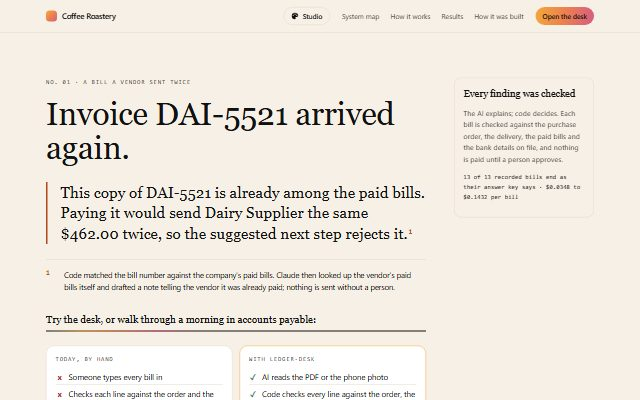
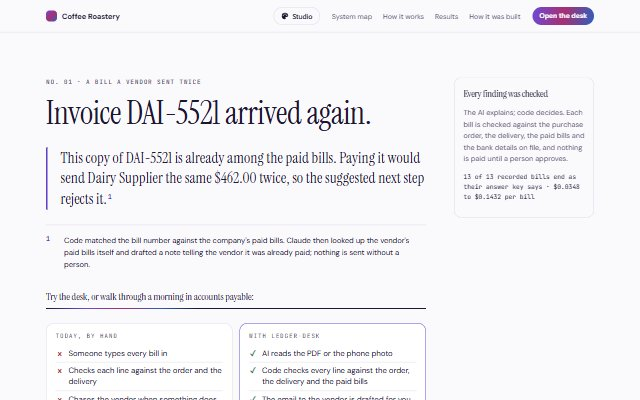
feat(web): Editorial on Trace lilac with Instrument Serif is the default look
The default look a first visit sees becomes layout 06, Editorial, on
Trace lilac with Instrument Serif + DM Sans (web/src/studio/presets.ts
DEFAULT, now { option: "06", palette: "lilac", font: "serif" }). It was
layout 01, Bills up front, on Golden hour on paper with Barlow Condensed
caps, the sibling demos' default, kept until the owner picked one. The
owner picked this look in the Studio.

Tests that pin the default, changed first and seen failing on the old
DEFAULT:
- studio.test.ts: the default and the fallback for a missing or unknown
  layout (2 of 133 failed, now 133 of 133).
- e2e/layouts.e2e.ts, "a pick is saved": it clicked Editorial and
  expected Editorial's own colours. With Editorial the default, that
  click keeps the look on screen (pickFor), so it now picks Bills up
  front and expects its own colours, and Back to the default expects
  the Editorial hero. On the old DEFAULT it failed 2 of 2 (desktop and
  phone) at the first Editorial check; now 60 of 60.
- tests/test_export_site.py: two tests read the default from the real
  presets file. One asserted that layout 01 is the default; it now
  asserts that 06 Editorial is the only default.

The README picture of the default had alt text written for layout 01
("the cards for bills ready, bills that need a look and money caught"),
hardcoded in scripts/export_site.py. It now comes from the default
layout's own Studio description; a new test covers it and failed on the
old text.
[…]

diff --git a/web/src/studio/studio.test.ts b/web/src/studio/studio.test.ts
@@ -77,10 +77,14 @@ describe('the Studio presets', () => {
     }
   })
 
-  it('fifteen font pairings; the default is golden hour on paper with Barlow Condensed caps on layout 01', () => {
+  it('fifteen font pairings; the default is Editorial on Trace lilac with Instrument Serif and DM Sans', () => {
     expect(Object.keys(FONTS)).toHaveLength(15)
-    // the owner picks the default from the twelve; 01 until then
-    expect(DEFAULT).toEqual({ option: '01', palette: 'coverPaper', font: 'condensed' })
+    // chosen by the owner on 2026-11-21: Editorial (06) on Trace lilac with Instrument Serif + DM Sans; until then
+    // layout 01 on Golden hour on paper with Barlow Condensed caps, the sibling demos' default look
+    expect(DEFAULT).toEqual({ option: '06', palette: 'lilac', font: 'serif' })
+    expect(PALETTES.lilac.name).toBe('Trace lilac')
+    expect(FONTS.serif.head).toMatch(/Instrument Serif/)
+    expect(FONTS.serif.body).toMatch(/DM Sans/)
     expect(FONTS.condensed.head).toMatch(/Barlow Condensed/)
     expect(FONTS.condensed.body).toMatch(/DM Sans/)
     expect(FONTS.condensed.caps).toBe(true)
@@ -97,8 +101,8 @@ describe('which look a visitor sees', () => {
 
   it('without a link the saved pick shows; without either, the default', () => {
     expect(resolve('', { option: '08', palette: 'lime', font: 'inter' })).toEqual({ option: '08', palette: 'lime', font: 'inter', source: 'saved' })
-    expect(resolve('')).toEqual({ option: '01', palette: 'coverPaper', font: 'condensed', source: 'default' })
-    expect(resolve('?layout=99')).toEqual({ option: '01', palette: 'coverPaper', font: 'condensed', source: 'default' })
+    expect(resolve('')).toEqual({ option: '06', palette: 'lilac', font: 'serif', source: 'default' })
+    expect(resolve('?layout=99')).toEqual({ option: '06', palette: 'lilac', font: 'serif', source: 'default' })
     expect(resolve('', { option: '99' }).source).toBe('default')
   })
 

diff --git a/web/e2e/layouts.e2e.ts b/web/e2e/layouts.e2e.ts
@@ -121,21 +121,24 @@ test.describe('the Studio', () => {
     await expect(opener).toBeFocused()
   })
 
+  // Picks Bills up front (01), a layout other than the default: since 2026-11-21 the default is Editorial (06), and
+  // clicking the layout already on screen keeps the look on screen instead of bringing the layout's own.
   test('a pick is saved and the page reloads into it; Back to the default clears it', async ({ page }) => {
     await page.goto('/')
     await ready(page)
+    await expect(page.locator('.hero-editorial')).toBeVisible()
     await page.locator('.sp-btn').first().click()
     const panel = page.getByRole('dialog', { name: 'Studio' })
-    await Promise.all([page.waitForEvent('load'), panel.getByRole('button', { name: /^Editorial/ }).click()])
+    await Promise.all([page.waitForEvent('load'), panel.getByRole('button', { name: /^Bills up front/ }).click()])
     await ready(page)
-    expect(JSON.parse((await saved(page)) ?? 'null')).toMatchObject({ option: '06', palette: 'coverPaper', font: 'serif' })
-    await expect(page.locator('.hero-editorial')).toBeVisible()
+    expect(JSON.parse((await saved(page)) ?? 'null')).toMatchObject({ option: '01', palette: 'coverDark', font: 'grotesk' })
+    await expect(page.locator('.hero-search')).toBeVisible()
     // the Studio opens again after its own reload, so the visitor sees the pick and can keep going
     await expect(page.getByRole('dialog', { name: 'Studio' })).toBeVisible()
     await Promise.all([page.waitForEvent('load'), page.getByRole('dialog', { name: 'Studio' }).getByRole('button', { name: 'Back to the default' }).click()])
     await ready(page)
     expect(await saved(page)).toBeNull()
-    await expect(page.locator('.hero-search')).toBeVisible()
+    await expect(page.locator('.hero-editorial')).toBeVisible()
   })
 
   test('a map-first layout can be picked too', async ({ page }) => {

diff --git a/web/src/studio/presets.ts b/web/src/studio/presets.ts
@@ -65,9 +65,9 @@ export const OPTIONS: Option[] = [
   { id: "14", name: "Status cards", short: "Friendly: each part of the workflow as a card with its status. Tap one to find it on the map.", cfg: { look: "garage", palette: "garage", font: "outfit" } },
 ];
 
-// What a first-time visitor sees: Golden hour on paper with Barlow Condensed caps, the sibling demos' default look, on
-// layout 01 until the owner picks a default from the twelve.
-export const DEFAULT = { option: "01", palette: "coverPaper", font: "condensed" };
+// What a first-time visitor sees: Editorial (06) on Trace lilac with Instrument Serif + DM Sans, picked by the owner
+// on 2026-11-21. Until then layout 01 on Golden hour on paper with Barlow Condensed caps, the sibling demos' default.
+export const DEFAULT = { option: "06", palette: "lilac", font: "serif" };
 
 export const PALETTES: Record<string, Palette> = {
   coverDark: { name: "Golden hour on black", bg: "#070708", card: "#141416", card2: "#1b1b1e", line: "#26262c", tx: "#f3f3f5", mu: "#9a9aa3", a1: "#f4a83a", a2: "#ec8050", a3: "#d55c82", acc: "#f4a83a", on: "#111111", mark: "rgba(244,168,58,.28)" },

diff --git a/tests/test_export_site.py b/tests/test_export_site.py
@@ -170,7 +170,9 @@ def test_each_recorded_run_carries_the_tokens_of_each_model_call():
 def test_the_layouts_come_from_the_studio_presets():
     layouts = export_site.layouts(ROOT / "web" / "src" / "studio" / "presets.ts")
     assert [l["id"] for l in layouts] == ["01", "04", "05", "06", "07", "08", "09", "10", "11", "12", "13", "14"]
-    assert layouts[0]["name"] == "Bills up front" and layouts[0]["default"] is True
+    assert layouts[0]["name"] == "Bills up front"
+    # the default since 2026-11-21 (layout 01 until then)
+    assert [(l["id"], l["name"]) for l in layouts if l["default"]] == [("06", "Editorial")]
     assert sum(l["default"] for l in layouts) == 1
 
 
@@ -200,7 +202,8 @@ def test_the_results_block_reads_the_numbers_from_the_data():
 def test_the_studio_counts_and_the_default_look_come_from_the_presets():
     k = export_site.studio(ROOT / "web" / "src" / "studio" / "presets.ts")
     assert (k["palettes"], k["fonts"]) == (21, 15)
-    assert (k["palette"], k["font"]) == ("Golden hour on paper", "Barlow Condensed caps + DM Sans")
+    # the default look since 2026-11-21 (Golden hour on paper with Barlow Condensed caps + DM Sans until then)
+    assert (k["palette"], k["font"]) == ("Trace lilac", "Instrument Serif + DM Sans")
 
 
 VITEST_FILE_FAILED = " Test Files  1 failed | 11 passed (12)\n      Tests  117 passed (117)\n"
@@ -251,3 +254,19 @@ def test_the_readme_intro_names_the_live_site_and_where_it_runs():
     for service in ("Azure Container Apps", "Azure Database for PostgreSQL", "Azure Key Vault", "Azure Static Web Apps", "Terraform"):
         assert service in intro, service
     assert "Not deployed" not in intro
+
+
+def test_the_readme_picture_of_the_default_is_described_as_that_layout():
+    # The alt text was written for layout 01 and kept when the default became 06 (2026-11-21): it described cards
+    # that are not in the picture. It now comes from the default layout's own Studio description.
+    lays = export_site.layouts(ROOT / "web" / "src" / "studio" / "presets.ts")
+    data = {
+        "evals": export_site.eval_runs(ROOT / "evals" / "results"),
+        "recorded": export_site.recorded_runs(ROOT / "replays" / "claude-opus-5-5-low-run2"),
+        "tests": {"python": {"passed": 1}, "web": {"passed": 1}},
+        "model": {"name": "Claude Opus 5.5"},
+    }
+    intro = export_site.readme_blocks(data, lays)["intro"]
+    default = next(l for l in lays if l["default"])
+    assert f'alt="Layout {default["id"]}, {default["name"]}, at 1280 pixels: {default["short"]}"' in intro
+    assert f'src="docs/img/layouts/{default["id"]}-web.jpg"' in intro

diff --git a/scripts/export_site.py b/scripts/export_site.py
@@ -310,8 +310,9 @@ def readme_blocks(data: dict, lays: list[dict], counts: dict | None = None) -> d
         + f", with the same bills and numbers in all of them; the default is layout {default['id']}, {default['name']}. See",
         "[Design](#design-the-layouts-on-the-web-and-on-a-phone).",
         "",
-        f'<img alt="Layout {default["id"]}, {default["name"]}, at 1280 pixels: the bill desk with the walkthrough button, the cards '
-        f'for bills ready, bills that need a look and money caught" src="docs/img/layouts/{default["id"]}-web.jpg" width="640">',
+        # the default layout's own Studio description, so the alt text follows the default (it described 01's cards)
+        f'<img alt="Layout {default["id"]}, {default["name"]}, at 1280 pixels: {default["short"]}" '
+        f'src="docs/img/layouts/{default["id"]}-web.jpg" width="640">',
     ])
     pairs = []
     for l in lays:

diff --git a/README.md b/README.md
@@ -16,13 +16,13 @@ on Azure Container Apps, the database on Azure Database for PostgreSQL, the secr
 Azure Static Web Apps, all set up with Terraform ([Where it runs](#where-it-runs-microsoft-azure)).
 
 The demo replays 13 recorded real runs of Claude Opus 5.5 through today's code, so it costs
-nothing per visit; 13 of 13 end as their answer key says. 392 Python tests and
-127 page tests pass, and browser tests check every layout at 1280 x 800 and 390 x 844.
+nothing per visit; 13 of 13 end as their answer key says. 393 Python tests and
+133 page tests pass, and browser tests check every layout at 1280 x 800 and 390 x 844.
 
-**A customizable page.** 12 layouts, 21 colour sets and 15 typefaces, with the same bills and numbers in all of them; the default is layout 01, Bills up front. See
+**A customizable page.** 12 layouts, 21 colour sets and 15 typefaces, with the same bills and numbers in all of them; the default is layout 06, Editorial. See
 [Design](#design-the-layouts-on-the-web-and-on-a-phone).
 
-<img alt="Layout 01, Bills up front, at 1280 pixels: the bill desk with the walkthrough button, the cards for bills ready, bills that need a look and money caught" src="docs/img/layouts/01-web.jpg" width="640">
+<img alt="Layout 06, Editorial, at 1280 pixels: Paper and serif: a bill sent twice, the paid bill as a footnote, one run stepped through in a player." src="docs/img/layouts/06-web.jpg" width="640">
 <!-- /generated:intro -->
 
 ## Why build it this way
@@ -179,7 +179,7 @@ The bills replay recorded Claude runs through today's code, so nothing calls a m
 ## Design: the layouts, on the web and on a phone
 
 <!-- generated:design -->
-The default is layout 01, Bills up front, in Golden hour on paper with Barlow Condensed caps + DM Sans.
+The default is layout 06, Editorial, in Trace lilac with Instrument Serif + DM Sans.
 Each pair is the page at 1280 x 800 and at 390 x 844, with reduced motion so the animations show their last frame.
 
 <table>
@@ -188,7 +188,7 @@ Each pair is the page at 1280 x 800 and at 390 x 844, with reduced motion so the
 <td><img alt="Layout 01, Bills up front, on the web" src="docs/img/layouts/01-web.jpg" width="640"></td>
 <td><img alt="Layout 01, Bills up front, on a phone" src="docs/img/layouts/01-phone.jpg" width="300"></td>
 </tr>
-<tr><td colspan="2"><b>01 Bills up front</b> (the default) - The bill desk up front with the walkthrough a click away, then a field of dots for every bill the eval read.</td></tr>
+<tr><td colspan="2"><b>01 Bills up front</b> - The bill desk up front with the walkthrough a click away, then a field of dots for every bill the eval read.</td></tr>
 <tr>
 <td><img alt="Layout 04, Under the hood, on the web" src="docs/img/layouts/04-web.jpg" width="640"></td>
 <td><img alt="Layout 04, Under the hood, on a phone" src="docs/img/layouts/04-phone.jpg" width="300"></td>
@@ -203,7 +203,7 @@ Each pair is the page at 1280 x 800 and at 390 x 844, with reduced motion so the
 <td><img alt="Layout 06, Editorial, on the web" src="docs/img/layouts/06-web.jpg" width="640"></td>
 <td><img alt="Layout 06, Editorial, on a phone" src="docs/img/layouts/06-phone.jpg" width="300"></td>
 </tr>
-<tr><td colspan="2"><b>06 Editorial</b> - Paper and serif: a bill sent twice, the paid bill as a footnote, one run stepped through in a player.</td></tr>
+<tr><td colspan="2"><b>06 Editorial</b> (the default) - Paper and serif: a bill sent twice, the paid bill as a footnote, one run stepped through in a player.</td></tr>
 <tr>
 <td><img alt="Layout 07, Simple: moving line, on the web" src="docs/img/layouts/07-web.jpg" width="640"></td>
 <td><img alt="Layout 07, Simple: moving line, on a phone" src="docs/img/layouts/07-phone.jpg" width="300"></td>
